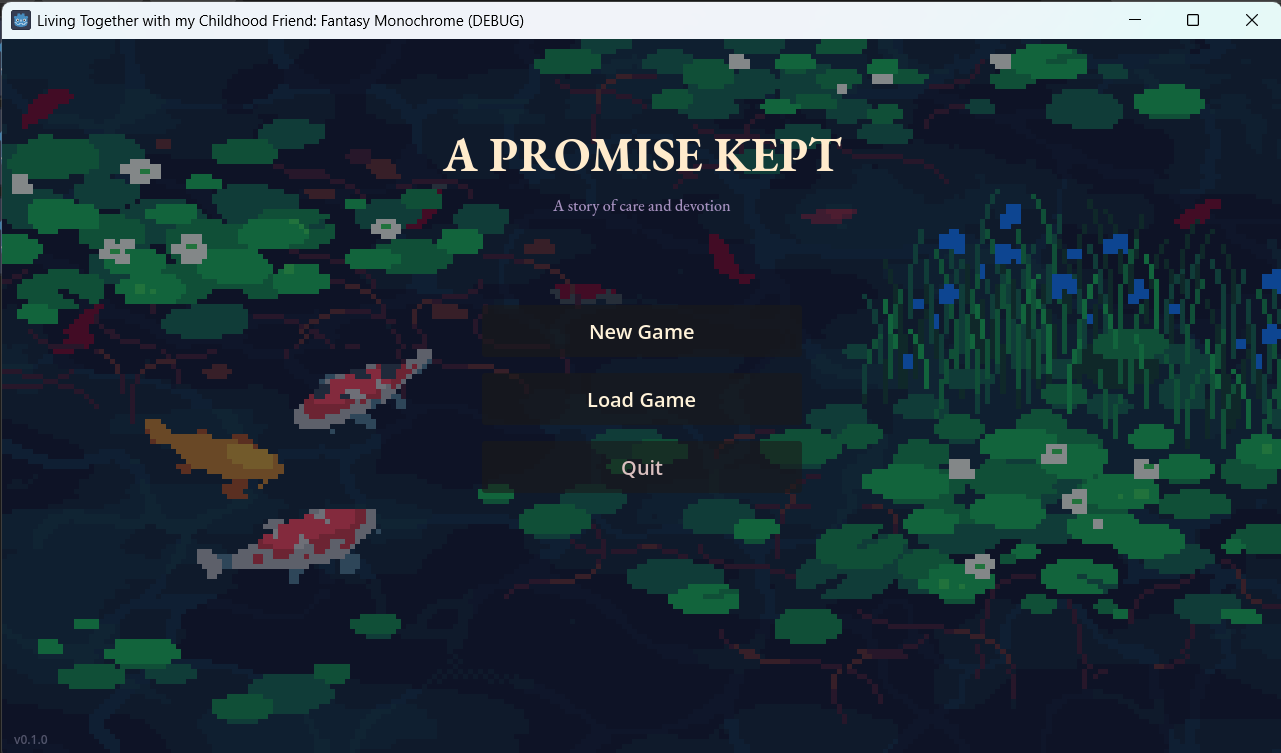
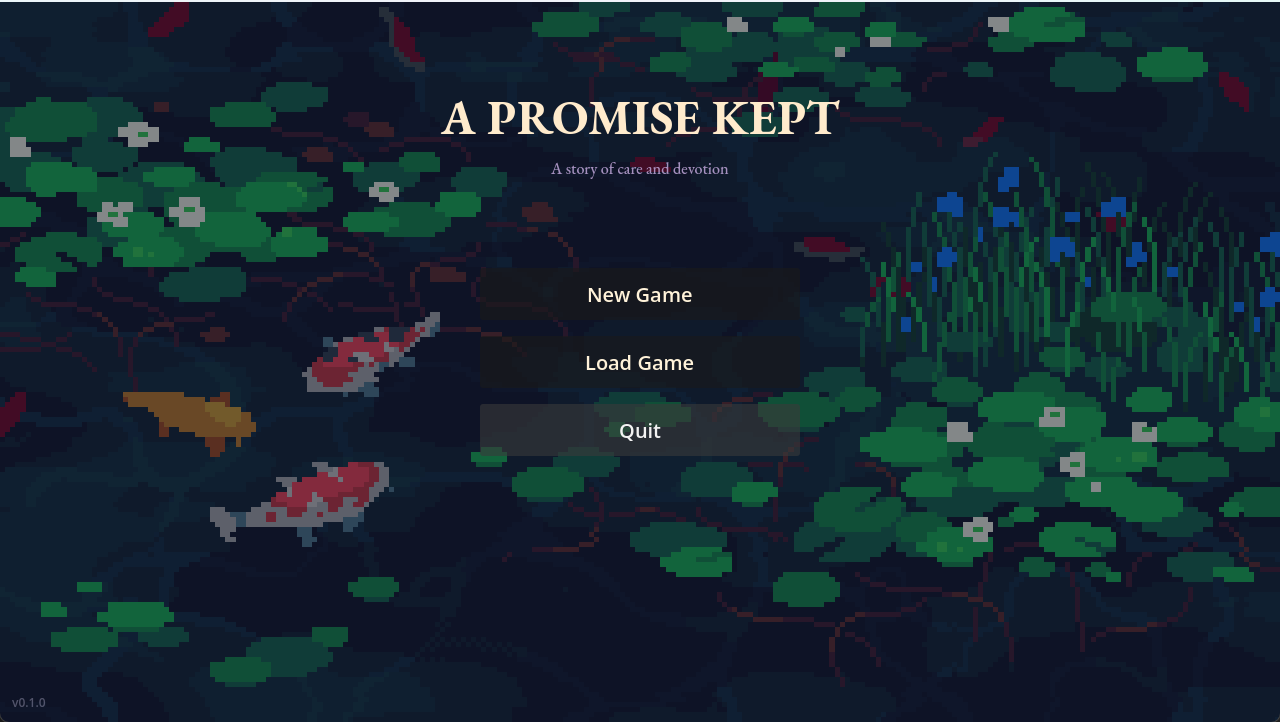
Replace the game project screenshot

diff --git a/src/content.js b/src/content.js
@@ -36,8 +36,8 @@ export const projects = [
     category: 'GAME DEVELOPMENT',
     image: '/assets/a-promise-kept.png',
     imageAlt: 'A Promise Kept title screen with a colorful pixel-art koi pond',
-    imageWidth: 1281,
-    imageHeight: 753,
+    imageWidth: 1280,
+    imageHeight: 722,
     description:
       'A visual novel and action-RPG hybrid built with Godot 4. Modular systems handle health, economy, affection, and day progression, with JSON-based multi-slot saves and branching narrative events.',
     tools: ['Godot 4', 'Dialogic 2', 'JSON'],
